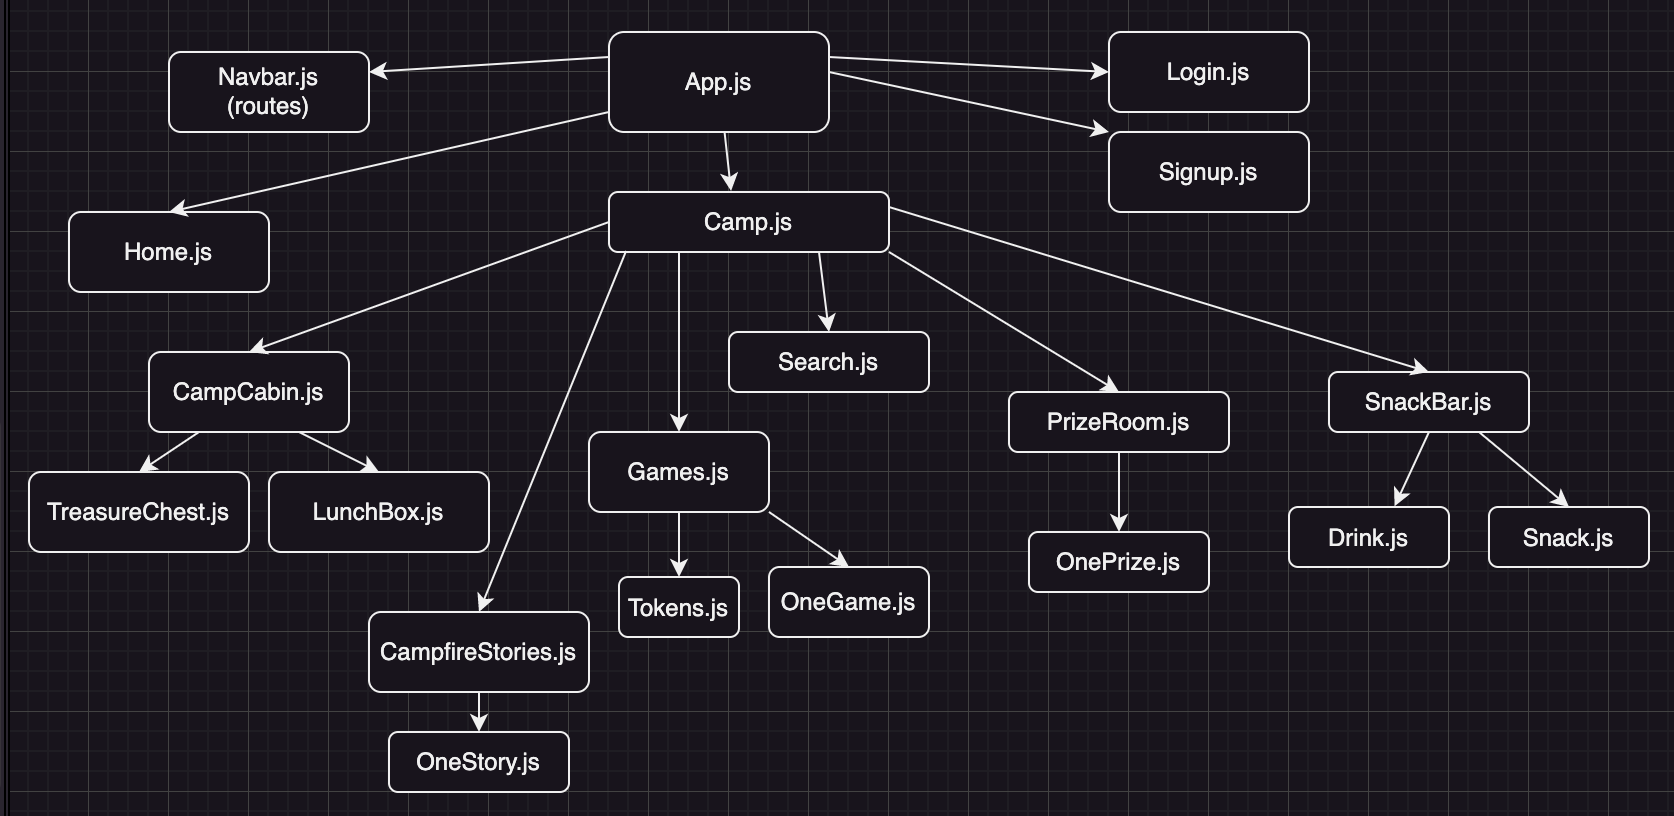
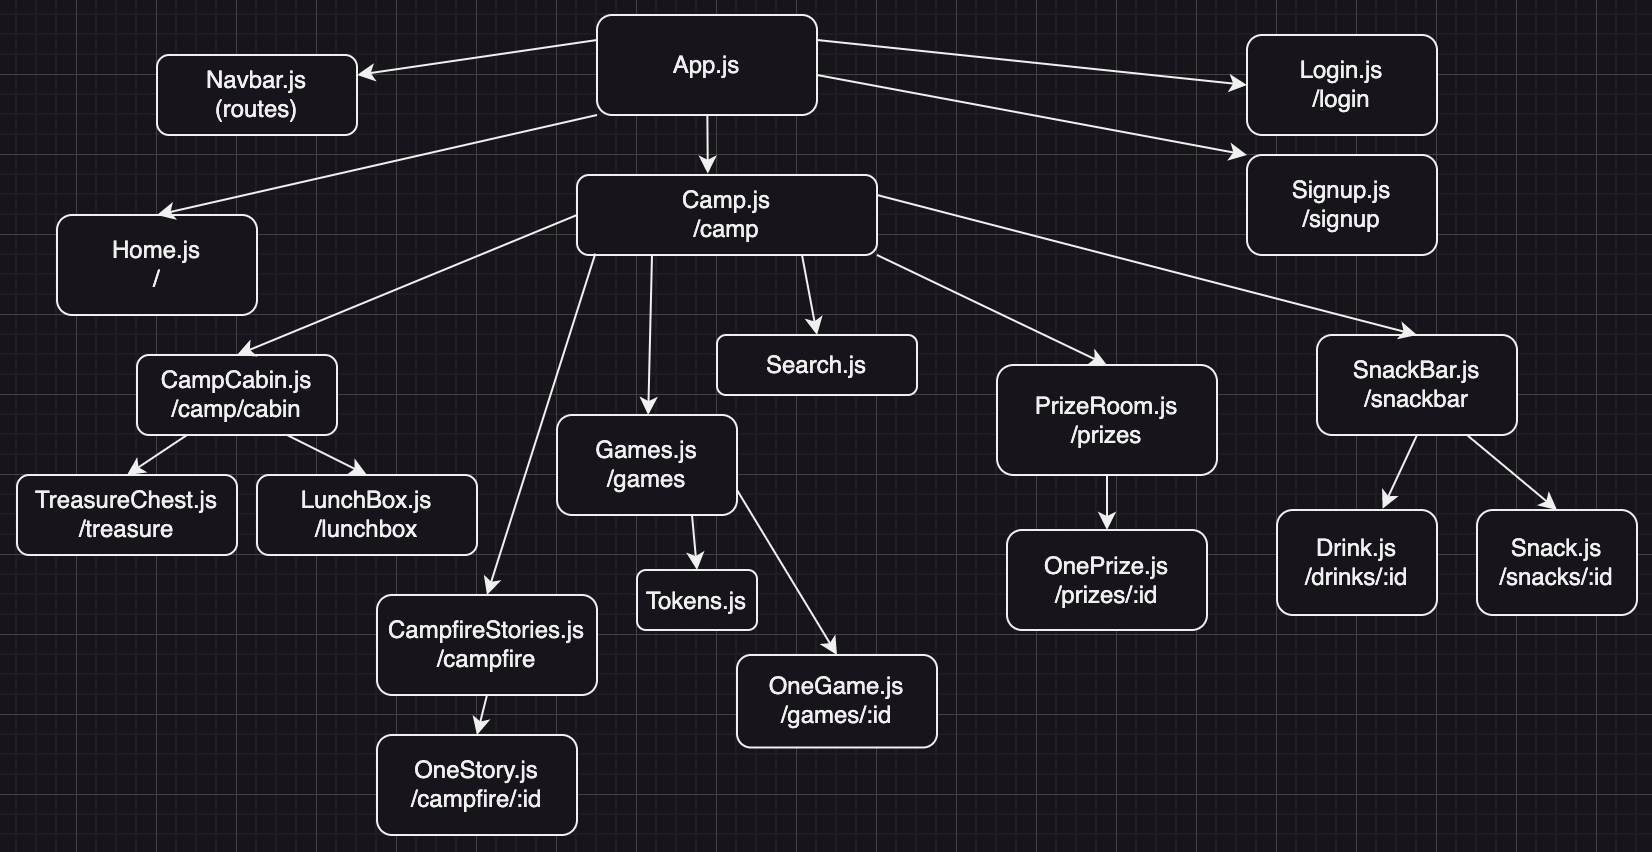
Add updated React Tree, Add client side routes

diff --git a/server/app.py b/server/app.py
@@ -293,6 +293,7 @@ class Games(Resource):
                     "image4",
                     "token_id",
                     "tokens",
+                    "win_status",
                 )
             )
             for game in Game.query.all()
@@ -300,7 +301,43 @@ class Games(Resource):
         return make_response(games, 200)
 
     def post(self):
-        pass
+        data = request.get_json()
+
+        try:
+            new_game = Game(
+                name=data.get("name"),
+                description=data.get("description"),
+                rules=data.get("rules"),
+                win_status=data.get("win_status"),
+                image1=data.get("image1"),
+                camper_id=data.get("camper_id"),
+                token_id=data.get("token_id"),
+            )
+
+            db.session.add(new_game)
+            db.session.commit()
+
+        except:
+            return make_response({"errors": ["validation errors"]}, 400)
+
+        response = make_response(
+            new_game.to_dict(
+                only=(
+                    "id",
+                    "name",
+                    "description",
+                    "rules",
+                    "image1",
+                    "image2",
+                    "image3",
+                    "image4",
+                    "token_id",
+                    "tokens",
+                )
+            ),
+            201,
+        )
+        return response
 
 
 api.add_resource(Games, "/games")
@@ -406,7 +443,18 @@ class CampfireStoryById(Resource):
 
 
 api.add_resource(CampfireStoryById, "/campfire_stories/<int:id>")
-
+# ---------------------------------------------------------------------------|
+#                               LOGIN
+# ---------------------------------------------------------------------------|
+# ---------------------------------------------------------------------------|
+#                               SIGNUP
+# ---------------------------------------------------------------------------|
+# ---------------------------------------------------------------------------|
+#                               CHECK SESSION
+# ---------------------------------------------------------------------------|
+# ---------------------------------------------------------------------------|
+#                               LOGOUT
+# ---------------------------------------------------------------------------|
 
 if __name__ == "__main__":
     app.run(port=5555, debug=True)

diff --git a/README.md b/README.md
@@ -22,6 +22,29 @@ A Camp Retro User can:
 
 ---
 
+## Client Side Routes
+
+| Client Route  | Component          |
+| ------------- | ------------------ |
+| /             | Home.js            |
+| /login        | Login.js           |
+| /signup       | Signup.js          |
+| /camp         | Camp.js            |
+| /camp/cabin   | CampCabin.js       |
+| /treasure     | TreasureChest.js   |
+| /lunchbox     | LunchBox.js        |
+| /games        | Games.js           |
+| /games/:id    | OneGame.js         |
+| /prizes       | PrizeRoom.js       |
+| /prizes/:id   | OnePrize.js        |
+| /snackbar     | SnackBar.js        |
+| /snacks/:id   | Snack.js           |
+| /drinks/:id   | Drink.js           |
+| /campfire     | CampfireStories.js |
+| /campfire/:id | OneStory.js        |
+
+---
+
 ## ERD
 
 ## <img src="images/ERD.png">
